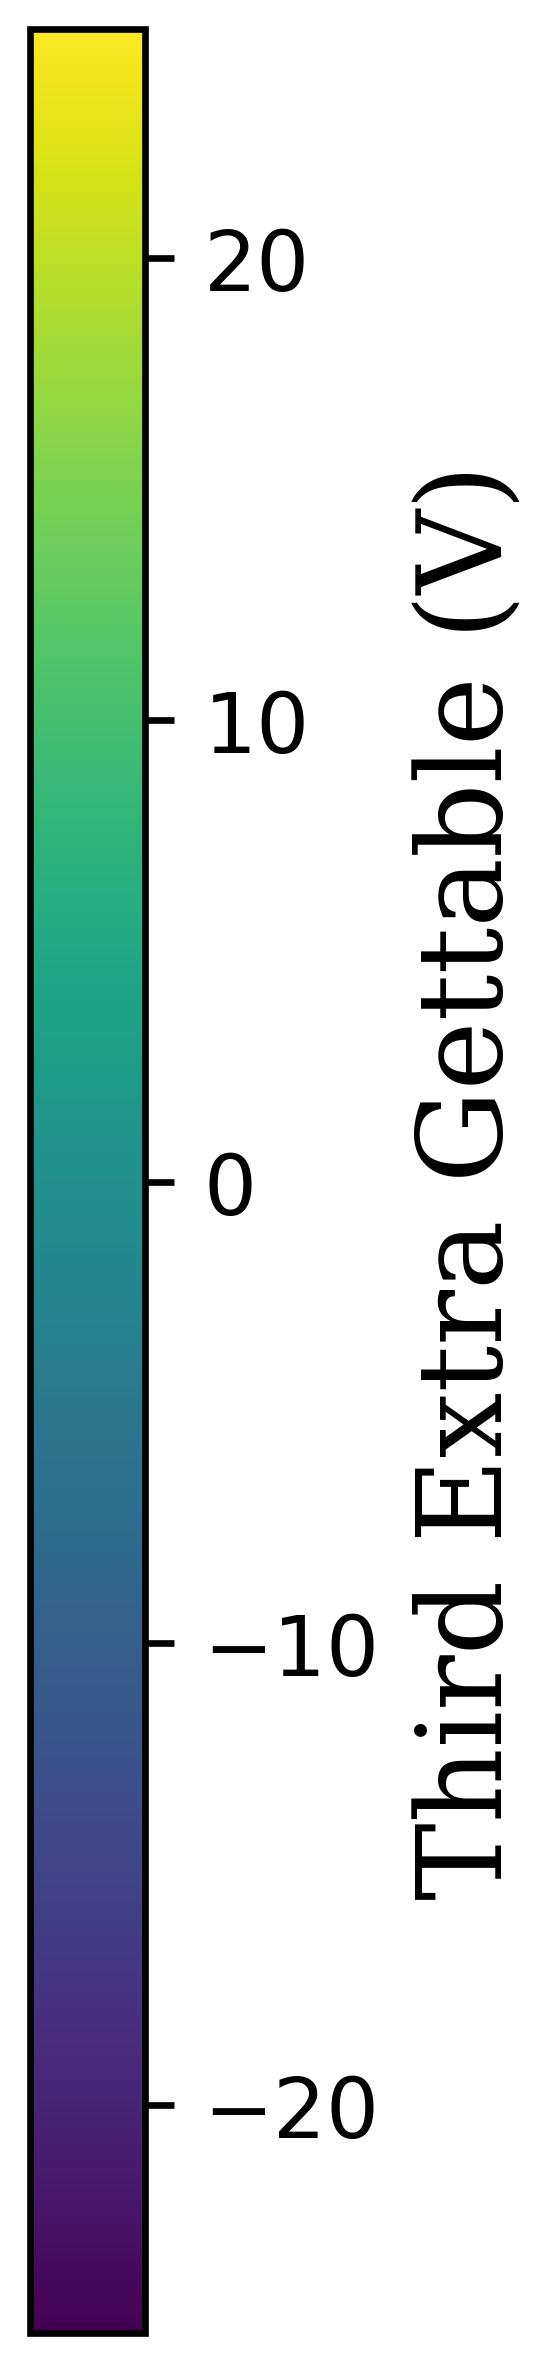
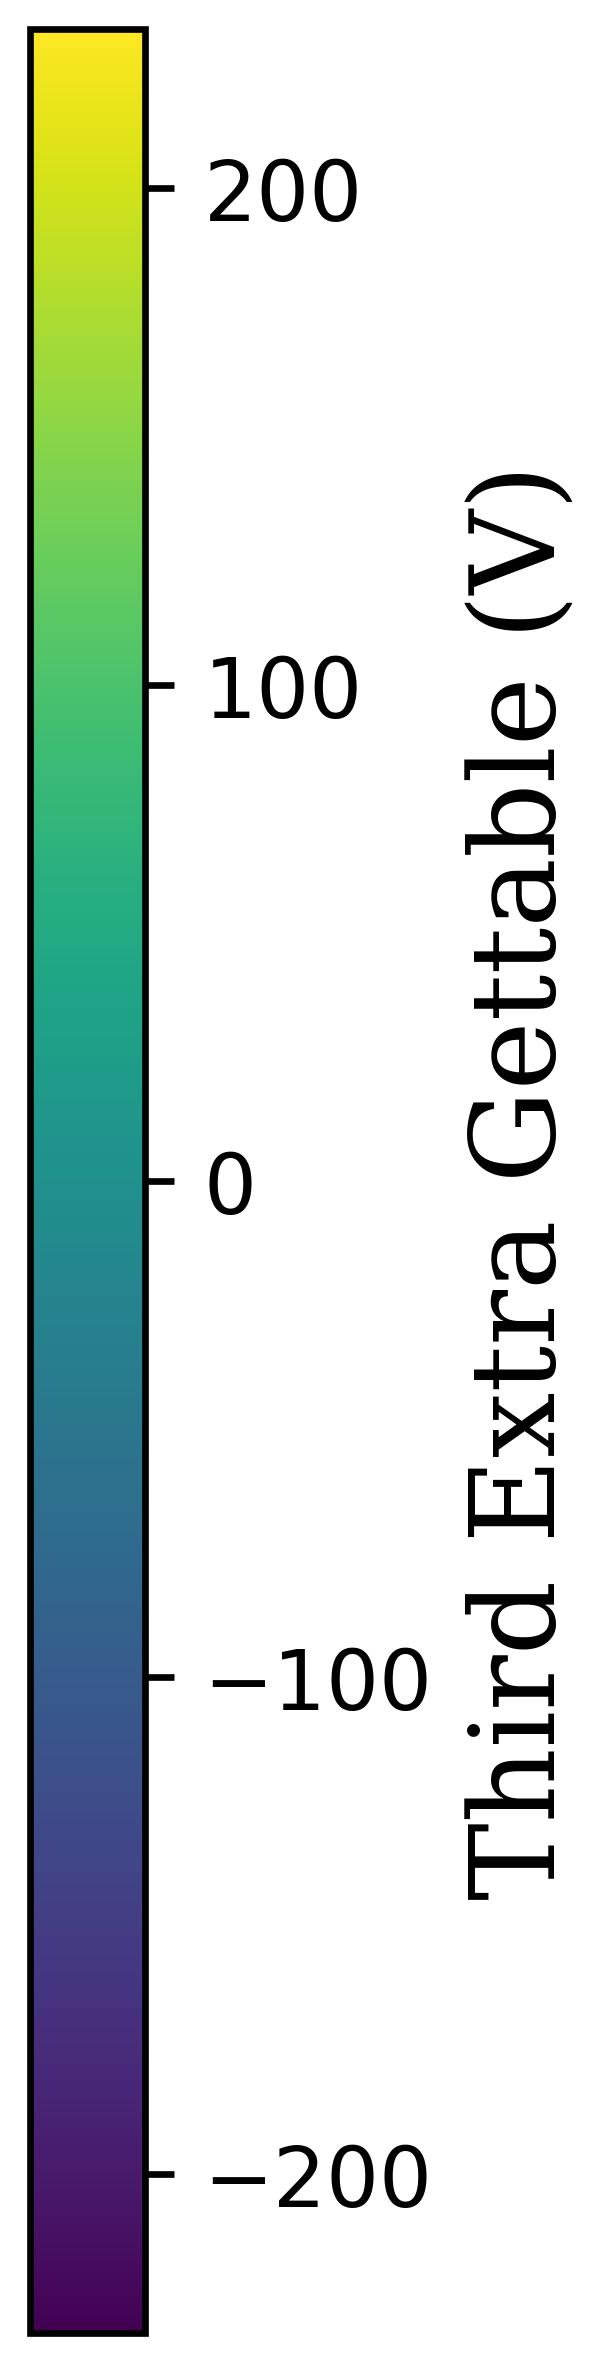
reopen

diff --git a/reopen plotter/reopen_plotter.py b/reopen plotter/reopen_plotter.py
@@ -1,0 +1,221 @@
+import argparse
+import importlib.util
+import json
+import os
+import subprocess
+import sys
+import time
+
+import numpy as np
+import xarray as xr
+
+ROOT_DIR = os.path.abspath(os.path.join(os.path.dirname(__file__), ".."))
+DEFAULT_MEAS_DIRS = [
+    os.path.join(os.environ.get("USERPROFILE", ""), "Box", "Quantum Device Lab", "Quantify", "Measurements"),
+    os.path.join(os.environ.get("USERPROFILE", ""), "Quantify", "local_measurements"),
+]
+OTHER_DATA_FILE = "other_data.json"
+JSON_DATA_FILE = "json_dataset.json"
+EXCHANGER_FILE = os.path.join(ROOT_DIR, "source", "exchanger0.txt")
+
+
+def find_saved_measurements():
+    paths = []
+    for base in DEFAULT_MEAS_DIRS:
+        if not os.path.isdir(base):
+            continue
+        for root, _, files in os.walk(base):
+            if OTHER_DATA_FILE in files and JSON_DATA_FILE in files:
+                paths.append(root)
+    return sorted(paths)
+
+
+def choose_saved_measurement(path_arg=None):
+    if path_arg:
+        if os.path.isdir(path_arg):
+            return os.path.abspath(path_arg)
+        raise FileNotFoundError(f"Measurement folder does not exist: {path_arg}")
+    saved = find_saved_measurements()
+    if not saved:
+        raise FileNotFoundError("No saved measurement folders found in standard locations.")
+    print("Found saved measurement folders:")
+    for idx, folder in enumerate(saved, start=1):
+        print(f"  {idx}: {folder}")
+    while True:
+        choice = input("Choose a folder number or paste a folder path: ").strip()
+        if not choice:
+            continue
+        if choice.isdigit() and 1 <= int(choice) <= len(saved):
+            return saved[int(choice) - 1]
+        if os.path.isdir(choice):
+            return os.path.abspath(choice)
+        print("Invalid choice. Try again.")
+
+
+def load_saved_data(folder):
+    other_path = os.path.join(folder, OTHER_DATA_FILE)
+    json_path = os.path.join(folder, JSON_DATA_FILE)
+    if not os.path.isfile(other_path) or not os.path.isfile(json_path):
+        raise FileNotFoundError("Saved measurement JSON files not found in folder.")
+    with open(other_path, "r", encoding="utf-8") as f:
+        other_data = json.load(f)
+    with open(json_path, "r", encoding="utf-8") as f:
+        json_dataset = json.load(f)
+    return other_data, json_dataset
+
+
+def infer_labels(other_data):
+    parameters = other_data.get("parameters", [])
+    settables = []
+    gettables = []
+    if len(parameters) >= 1 and isinstance(parameters[0], dict):
+        settables = [list(item.keys())[0] for item in parameters[0].get("settables", []) if isinstance(item, dict) and item]
+    if len(parameters) >= 2 and isinstance(parameters[1], dict):
+        gettables = list(parameters[1].get("recorded", []))
+    return settables, gettables
+
+
+def build_xarray_dataset(json_dataset, settables, gettables):
+    coords = {label: ("dim_0", np.asarray(json_dataset[label], dtype=np.float32)) for label in settables}
+    data_vars = {label: ("dim_0", np.asarray(json_dataset[label], dtype=np.float32)) for label in gettables}
+    return xr.Dataset(data_vars=data_vars, coords=coords)
+
+
+def load_transfer_module(child_folder):
+    transfer_path = os.path.join(child_folder, "cpp_interface", "transfer.py")
+    spec = importlib.util.spec_from_file_location("transfer", transfer_path)
+    module = importlib.util.module_from_spec(spec)
+    spec.loader.exec_module(module)
+    return module
+
+
+def make_initial_writes(proc_id, my_oned_id, gettable_id, settables_labels, gettables_labels, dataset, name, data_store_path, parent_pid, mem_addresses):
+    # compress dataset similar to quantify_measurement.compress_dset_json_for_initial_transfer
+    dset_json = dataset.to_dict()
+    # replace each data_var's data with its length to match the child ingester expectation
+    for data_var_key, var_container in dset_json.get("data_vars", {}).items():
+        data_list = var_container.get("data", [])
+        try:
+            data_len = len(data_list)
+        except Exception:
+            data_len = 0
+        var_container["data"] = [data_len]
+
+    # keep coords as-is (we did not clear them) so the child can consume them directly
+    initial_writes = {
+        "proc_id": str(proc_id),
+        "my_oned_id": str(my_oned_id),
+        "gettable_id": str(gettable_id),
+        "settables_labels": json.dumps(settables_labels),
+        "gettables_labels": json.dumps(gettables_labels),
+        "dataset": json.dumps(dset_json),
+        "name": name,
+        "data_store_path": data_store_path,
+        "parent_pid": str(parent_pid),
+        "mem_addresses": json.dumps(mem_addresses),
+    }
+    return json.dumps(initial_writes) + "\n"
+
+
+def create_exchanger_file():
+    os.makedirs(os.path.dirname(EXCHANGER_FILE), exist_ok=True)
+    with open(EXCHANGER_FILE, "w", encoding="utf-8") as f:
+        pass
+
+
+def respond_to_plotter(child_proc, transfer_module, json_dataset, settables, gettables):
+    setp_index = len(json_dataset[settables[0]]) if settables else len(json_dataset[gettables[0]])
+    while child_proc.poll() is None:
+        time.sleep(0.01)
+        with open(EXCHANGER_FILE, "r", encoding="utf-8") as f:
+            content = f.read().strip()
+        if content == "0":
+            transfer_module.handle.set_transfer_semaphore(True)
+            for idx, label in enumerate(gettables):
+                transfer_module.write_array(idx, json_dataset[label])
+            transfer_module.handle.set_setp_index(setp_index)
+            transfer_module.handle.set_transfer_semaphore(False)
+            with open(EXCHANGER_FILE, "w", encoding="utf-8") as f:
+                f.write("01")
+        elif content.endswith("2"):
+            with open(EXCHANGER_FILE, "w", encoding="utf-8") as f:
+                f.write("")
+
+
+def run(folder):
+    other_data, json_dataset = load_saved_data(folder)
+    settables, gettables = infer_labels(other_data)
+    if not settables or not gettables:
+        raise ValueError("Saved data does not contain usable settables/gettables labels.")
+
+    dimension = other_data.get("dimension")
+    if dimension not in (1, 2):
+        dimension = 2 if len(settables) >= 2 else 1
+
+    if dimension == 1:
+        child_dir = os.path.join(ROOT_DIR, "source", "custom1D")
+        child_script = "mainv2.py"
+        my_oned_id = 0
+        gettable_id = 0
+    else:
+        child_dir = os.path.join(ROOT_DIR, "source", "custom2D")
+        child_script = "mainv2D.py"
+        my_oned_id = 0
+        gettable_id = 0
+
+    dataset = build_xarray_dataset(json_dataset, settables, gettables)
+    transfer_module = load_transfer_module(child_dir)
+
+    try:
+        transfer_module.main(recompile=False)
+    except Exception:
+        transfer_module.main(recompile=True)
+
+    transfer_module.handle.set_setp_index(0)
+    transfer_module.handle.set_transfer_semaphore(False)
+
+    create_exchanger_file()
+    initial_writes = make_initial_writes(
+        proc_id=0,
+        my_oned_id=my_oned_id,
+        gettable_id=gettable_id,
+        settables_labels=settables,
+        gettables_labels=gettables,
+        dataset=dataset,
+        name=other_data.get("measurement_name", "Reopened Measurement"),
+        data_store_path=folder,
+        parent_pid=os.getpid(),
+        mem_addresses={
+            "setp_index_address": transfer_module.handle.get_setp_pointer(),
+            "transfer_semaphore_address": transfer_module.handle.get_transfer_semaphore_pointer(),
+        },
+    )
+
+    child_args = transfer_module.get_child_args().split(" ")
+    child_proc = subprocess.Popen(
+        [sys.executable, child_script] + child_args,
+        cwd=child_dir,
+        stdin=subprocess.PIPE,
+        stdout=sys.stdout,
+        stderr=sys.stderr,
+        text=True,
+        bufsize=0,
+    )
+    child_proc.stdin.writelines(initial_writes)
+    child_proc.stdin.flush()
+
+    respond_to_plotter(child_proc, transfer_module, json_dataset, settables, gettables)
+    child_proc.wait()
+
+
+if __name__ == "__main__":
+    parser = argparse.ArgumentParser(description="Reopen a saved measurement into the existing custom plotter programs.")
+    parser.add_argument("folder", nargs="?", help="Path to saved measurement folder")
+    args = parser.parse_args()
+
+    try:
+        folder = choose_saved_measurement(args.folder)
+        run(folder)
+    except Exception as exc:
+        print(f"Error reopening plotter: {exc}")
+        sys.exit(1)

diff --git a/source/custom1D/data_ingester_.py b/source/custom1D/data_ingester_.py
@@ -64,21 +64,31 @@ class data_ingester():
 		data_vars = dset_json["data_vars"]
 		for data_var_key in data_vars:
 			var_container = data_vars[data_var_key]
-			data_list_len = var_container["data"][0]
+			# support both compressed form ([length]) and full-data form ([v0, v1, ...])
+			data_field = var_container.get("data", [])
+			if len(data_field) == 1 and (isinstance(data_field[0], int) or (hasattr(data_field[0], "dtype") and numpy.issubdtype(data_field[0].dtype, numpy.integer))):
+				data_list_len = int(data_field[0])
+			else:
+				# already full data list
+				data_list_len = len(data_field)
 			var_container["data"] = [numpy.nan] * data_list_len
 
 		setpoints_grid_list = []
-		for coord in dset_json["coords"]:
-			setpoint_ranges = dset_json["_settables_ranges"][coord]
-			for setpoint_range in setpoint_ranges:
-				dset_json["coords"][coord]["data"].extend(list(numpy.linspace(setpoint_range[0], setpoint_range[1], setpoint_range[2])))
-			self.data_trace_splits.append(len(dset_json["coords"][coord]["data"]))
-			setpoints_grid_list.append(dset_json["coords"][coord]["data"])
-		returned = self._setpoints_grid(setpoints_grid_list)
+		if "_settables_ranges" in dset_json:
+			for coord in dset_json["coords"]:
+				setpoint_ranges = dset_json["_settables_ranges"][coord]
+				for setpoint_range in setpoint_ranges:
+					dset_json["coords"][coord]["data"].extend(list(numpy.linspace(setpoint_range[0], setpoint_range[1], setpoint_range[2])))
+				self.data_trace_splits.append(len(dset_json["coords"][coord]["data"]))
+				setpoints_grid_list.append(dset_json["coords"][coord]["data"])
+			returned = self._setpoints_grid(setpoints_grid_list)
 
-		for i,coord in enumerate(dset_json["coords"]):
-			dset_json["coords"][coord]["data"].clear()
-			dset_json["coords"][coord]["data"].extend(returned[i])
+			for i,coord in enumerate(dset_json["coords"]):
+				dset_json["coords"][coord]["data"].clear()
+				dset_json["coords"][coord]["data"].extend(returned[i])
+		else:
+			for coord in dset_json["coords"]:
+				self.data_trace_splits.append(len(dset_json["coords"][coord]["data"]))
 		return dset_json
 
 	def wait_for_initial_data(self):

diff --git a/source/custom2D/data_ingester_.py b/source/custom2D/data_ingester_.py
@@ -77,21 +77,31 @@ class data_ingester():
 		data_vars = dset_json["data_vars"]
 		for data_var_key in data_vars:
 			var_container = data_vars[data_var_key]
-			data_list_len = var_container["data"][0]
+			# support both compressed form ([length]) and full-data form ([v0, v1, ...])
+			data_field = var_container.get("data", [])
+			if len(data_field) == 1 and (isinstance(data_field[0], int) or (hasattr(data_field[0], "dtype") and numpy.issubdtype(data_field[0].dtype, numpy.integer))):
+				data_list_len = int(data_field[0])
+			else:
+				# already full data list
+				data_list_len = len(data_field)
 			var_container["data"] = [numpy.nan] * data_list_len
 
 		setpoints_grid_list = []
-		for coord in dset_json["coords"]:
-			setpoint_ranges = dset_json["_settables_ranges"][coord]
-			for setpoint_range in setpoint_ranges:
-				dset_json["coords"][coord]["data"].extend(list(numpy.linspace(setpoint_range[0], setpoint_range[1], setpoint_range[2])))
-			self.data_trace_splits.append(len(dset_json["coords"][coord]["data"]))
-			setpoints_grid_list.append(dset_json["coords"][coord]["data"])
-		returned = self._setpoints_grid(setpoints_grid_list)
+		if "_settables_ranges" in dset_json:
+			for coord in dset_json["coords"]:
+				setpoint_ranges = dset_json["_settables_ranges"][coord]
+				for setpoint_range in setpoint_ranges:
+					dset_json["coords"][coord]["data"].extend(list(numpy.linspace(setpoint_range[0], setpoint_range[1], setpoint_range[2])))
+				self.data_trace_splits.append(len(dset_json["coords"][coord]["data"]))
+				setpoints_grid_list.append(dset_json["coords"][coord]["data"])
+			returned = self._setpoints_grid(setpoints_grid_list)
 
-		for i,coord in enumerate(dset_json["coords"]):
-			dset_json["coords"][coord]["data"].clear()
-			dset_json["coords"][coord]["data"].extend(returned[i])
+			for i,coord in enumerate(dset_json["coords"]):
+				dset_json["coords"][coord]["data"].clear()
+				dset_json["coords"][coord]["data"].extend(returned[i])
+		else:
+			for coord in dset_json["coords"]:
+				self.data_trace_splits.append(len(dset_json["coords"][coord]["data"]))
 		return dset_json
 
 	def wait_for_initial_data(self):

diff --git a/source/custom2D/viewport_.py b/source/custom2D/viewport_.py
@@ -92,12 +92,12 @@ class viewport():
 		self._camera_viewport_start[0] = new_start[0]
 		self._camera_viewport_start[1] = new_start[1]
 
-	def mouse_drag(self, input : input_.input):
+	def mouse_drag(self, input : input_.input, speed_multiplier : float = 1.7):
 		if pygame.mouse.get_pressed()[0]:
 			pygame.mouse.set_relative_mode(True)
 			change = [input.mouse_vel[0] / self.display_manager.get_window_size()[0], input.mouse_vel[1] / self.display_manager.get_window_size()[1]]
-			change[0] *= self.get_camera_viewport()[0]
-			change[1] *= self.get_camera_viewport()[1]
+			change[0] *= self.get_camera_viewport()[0] * speed_multiplier
+			change[1] *= self.get_camera_viewport()[1] * speed_multiplier
 			self.set_camera_viewport_start((self.get_camera_viewport_start()[0] - change[0], self.get_camera_viewport_start()[1] - change[1]))
 		else:
 			pygame.mouse.set_relative_mode(False)

diff --git a/script2D.py b/script2D.py
@@ -51,13 +51,13 @@ third_gettable =  Parameter("third_gettable", dummy_instrument, "Third Extra Get
 
 
 sweep_number.set(1)
-dummy_voltage_source.inter_delay = 0.1
+dummy_voltage_source.inter_delay = 0.0
 
 quantify_measurement.set_settables([dummy_voltage_source, sweep_number])
-quantify_measurement.set_gettables([measured_voltage, second_gettable, third_gettable])
+quantify_measurement.set_gettables([measured_voltage])
 
-quantify_measurement.make_setpoint_list([(-50, 50, 100)], dummy_voltage_source)
-quantify_measurement.make_setpoint_list([(0, 50, 51)], sweep_number)
+quantify_measurement.make_setpoint_list([(-50, 50, 10)], dummy_voltage_source)
+quantify_measurement.make_setpoint_list([(0, 50, 10)], sweep_number)
 quantify_measurement.set_measurement_name("example")
 quantify_measurement.run()
 print("all out")

diff --git a/source/save_functions.py b/source/save_functions.py
@@ -70,7 +70,7 @@ def save_measurement_script(data_store_path):
     script_path = traceback.extract_stack()[0].filename
     shutil.copy(script_path, data_store_path+f"\\Script - {script_path.split("\\")[-1]}")
 
-def request_screenshot(data_store_path, wait_s=2.5):
+def request_screenshot(data_store_path, wait_s=5):
     time.sleep(7) #pre wait to let the grahphs open in time (Only helps testing)
     with open("source\\screenshot_0.txt", "w") as screenshot_request:
         screenshot_request.write(data_store_path+"\\graph_thumbnail\n")
